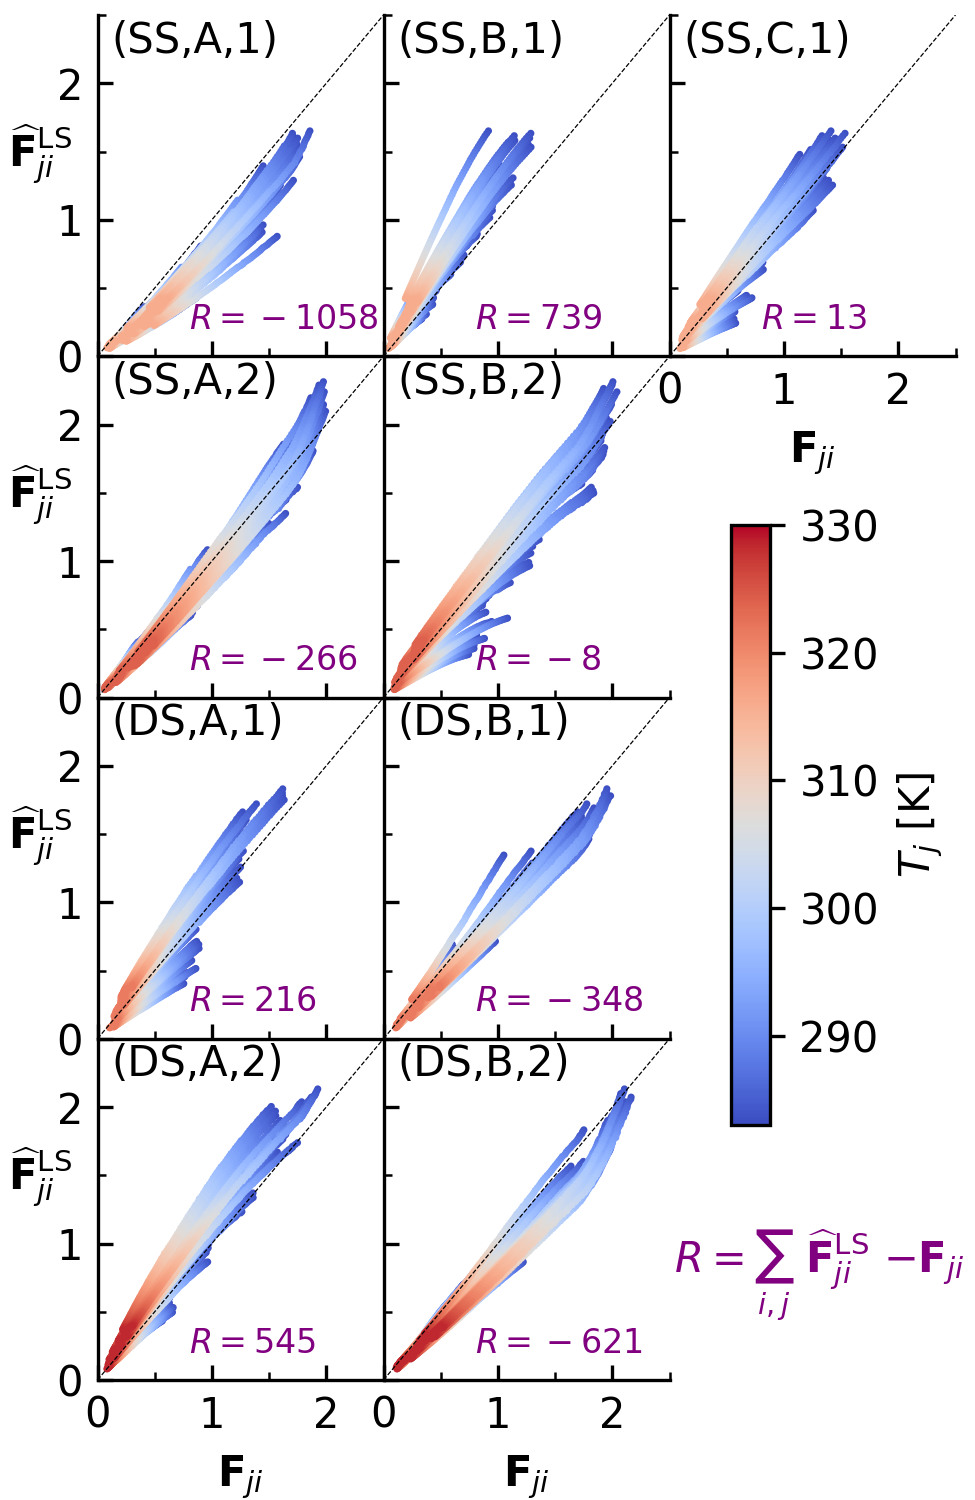
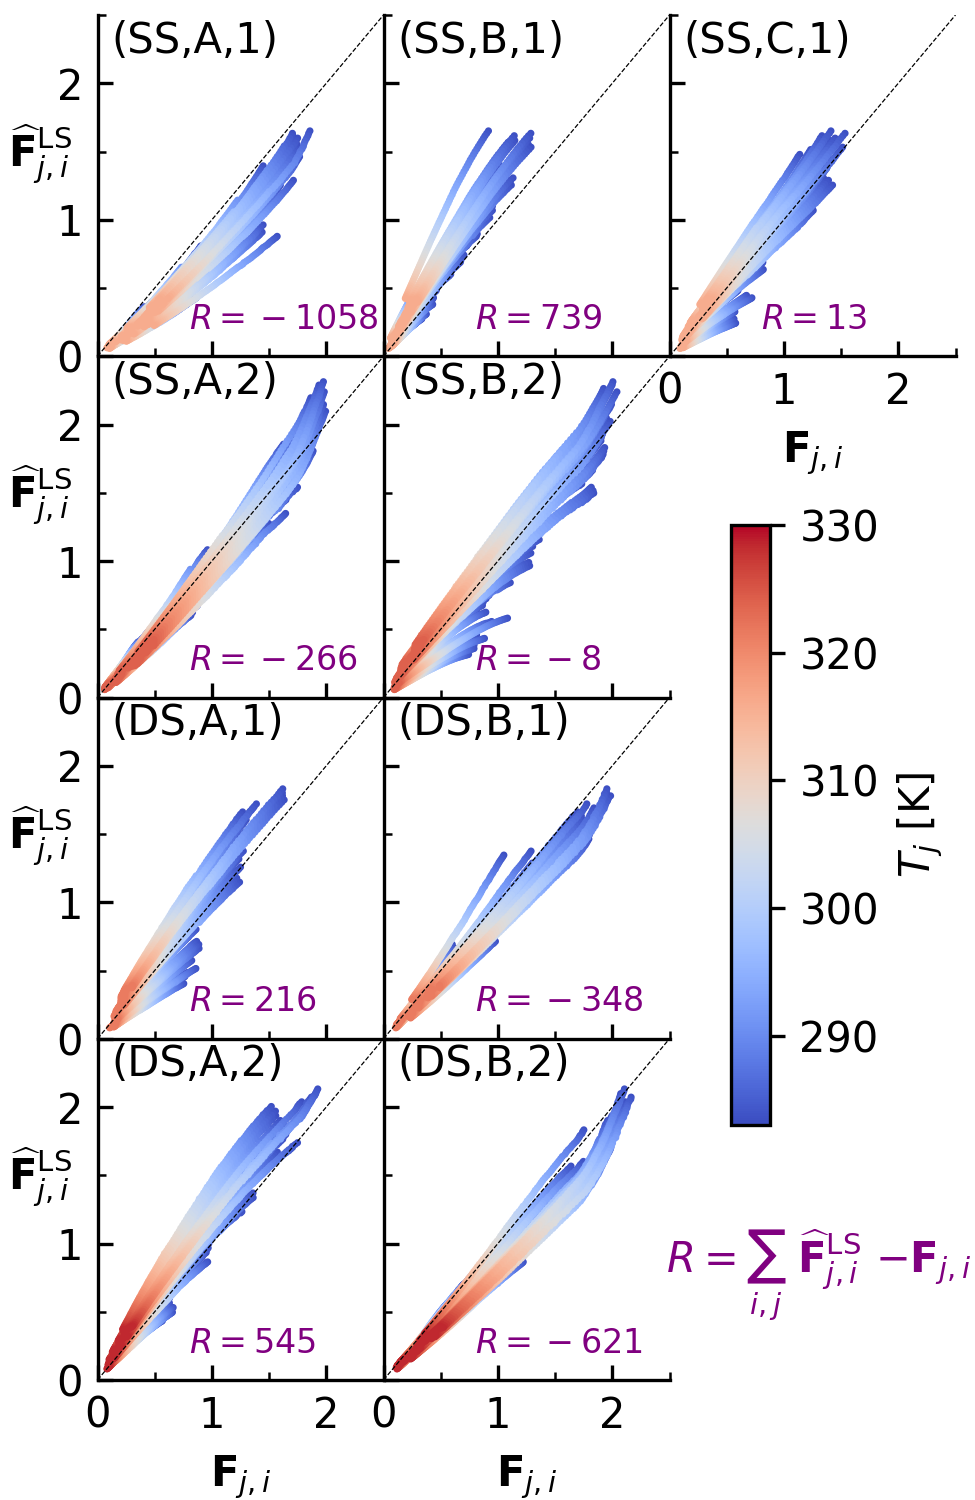
Update figure 3, 4; commas in subscr

diff --git a/src/plot_noise_removal.py b/src/plot_noise_removal.py
@@ -140,7 +140,7 @@ def plot_Fhat_vs_F(Fs, Fhats, Ts, fname, sname=r"$\widehat{\mathbf{F}}_{ji}^\mat
 
     figls.text(
         0.84, 0.15,
-        r"$R=\sum_{i,j}$ %s $ - \mathbf{F}_{ji}$" % sname, 
+        r"$R=\sum_{i,j}$ %s $ - \mathbf{F}_{j,i}$" % sname, 
         va='center', ha='center', color="purple"
         )
 
@@ -154,10 +154,10 @@ def plot_Fhat_vs_F(Fs, Fhats, Ts, fname, sname=r"$\widehat{\mathbf{F}}_{ji}^\mat
     axls[0, 0].annotate("(SS,A,1)", **kwargs)
     axls[0, 1].annotate("(SS,B,1)", **kwargs)
     axls[0, 2].annotate("(SS,C,1)", **kwargs)
-    axls[3, 0].set_xlabel(r"$\mathbf{F}_{ji}$")
-    axls[3, 1].set_xlabel(r"$\mathbf{F}_{ji}$")
+    axls[3, 0].set_xlabel(r"$\mathbf{F}_{j,i}$")
+    axls[3, 1].set_xlabel(r"$\mathbf{F}_{j,i}$")
     for ax in (axls[0, 2], ):
-        ax.set_xlabel(r"$\mathbf{F}_{ji}$")
+        ax.set_xlabel(r"$\mathbf{F}_{j,i}$")
         ax.tick_params(labelbottom=True)
 
     for irow in range(4):

diff --git a/REPRODUCEME.md b/REPRODUCEME.md
@@ -125,12 +125,16 @@ The subsets of the data are made via
 
     >>> for dataset in (SS_1, SS_2, DS_1, DS_2):
     ...     dataset.make_subset(F_min/F_REF)
-    ...     "Max temperature for %s, %i is %g K" % (dataset.t, int(dataset.D), dataset.T.max())
+    ...     "%s %i %3.2f %3.2f %5.1f %5.1f" % (
+    ...         dataset.t, int(dataset.D), 
+    ...         dataset.C.min(), dataset.C.max(), 
+    ...         dataset.T.min(), dataset.T.max()
+    ...     )
     ...
-    'Max temperature for SS, 1 is 316.5 K'
-    'Max temperature for SS, 2 is 324.5 K'
-    'Max temperature for DS, 1 is 322 K'
-    'Max temperature for DS, 2 is 329 K'
+    'SS 1 0.51 3.74 283.5 316.5'
+    'SS 2 0.51 3.74 283.5 324.5'
+    'DS 1 0.51 2.49 283.5 322.0'
+    'DS 2 0.51 2.49 283.5 329.0'
 
 ## Noise Removal
 
@@ -157,7 +161,7 @@ each combination via
     ...     tuple(F_hats),
     ...     (SS_1.T, SS_2.T, DS_1.T, DS_2.T), 
     ...     "figure3.png", 
-    ...     sname=r"$\widehat{\mathbf{F}}_{ji}^\mathrm{LS}$")
+    ...     sname=r"$\widehat{\mathbf{F}}_{j,i}^\mathrm{LS}$")
     ...
 
 This is Figure 3 in the main text, which looks like
@@ -210,7 +214,7 @@ The results are plotted via Figure 4
     ...     (SS_1.Fhat_tls, SS_2.Fhat_tls, DS_1.Fhat_tls, DS_2.Fhat_tls),
     ...     (SS_1.T, SS_2.T, DS_1.T, DS_2.T), 
     ...     "figure4.png", 
-    ...     sname=r"$\widehat{\mathbf{F}}_{ji}^\mathrm{TLS}$")
+    ...     sname=r"$\widehat{\mathbf{F}}_{j,i}^\mathrm{TLS}$")
     ...
 
 which looks like
